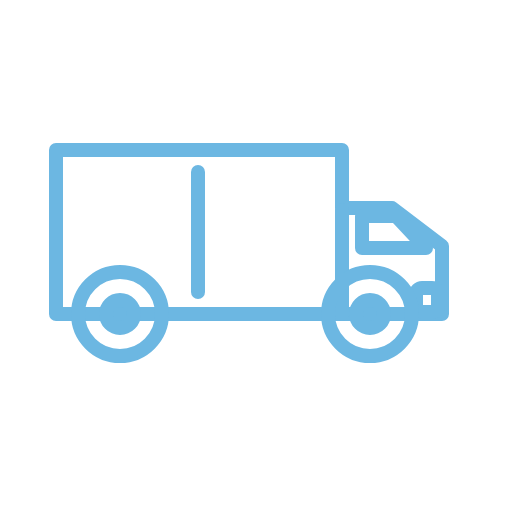
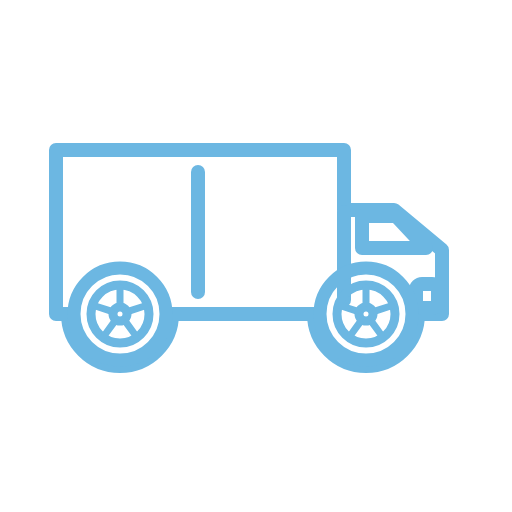
Kamyonet ikonlari v2: gercekci lastik/jant + camurluk arklari

Changed region(s): [[0.5938, 0.2812, 0.8438, 0.75], [0.125, 0.5, 0.3438, 0.75], [0.8125, 0.4375, 0.875, 0.5]]

diff --git a/_iconsrc_kamyonet/kamyonet-sol.html b/_iconsrc_kamyonet/kamyonet-sol.html
@@ -2,22 +2,34 @@
 <style>html,body{margin:0;padding:0;background:transparent}svg{display:block;width:512px;height:512px}</style></head>
 <body>
 <svg xmlns="http://www.w3.org/2000/svg" viewBox="0 0 512 512">
+  <defs>
+    <g id="wheel" fill="none" stroke="#6cb7e2" stroke-linecap="round">
+      <circle r="46" stroke-width="13"/>   <!-- dış lastik -->
+      <circle r="29" stroke-width="9"/>    <!-- jant -->
+      <circle r="7"  stroke-width="9"/>    <!-- göbek -->
+      <g stroke-width="7">                  <!-- 5 kollu jant -->
+        <line y1="-11" y2="-26"/>
+        <line y1="-11" y2="-26" transform="rotate(72)"/>
+        <line y1="-11" y2="-26" transform="rotate(144)"/>
+        <line y1="-11" y2="-26" transform="rotate(216)"/>
+        <line y1="-11" y2="-26" transform="rotate(288)"/>
+      </g>
+    </g>
+  </defs>
   <g fill="none" stroke="#6cb7e2" stroke-width="14" stroke-linecap="round" stroke-linejoin="round">
-    <!-- kamyonet yan dış hat (ön solda): kabin + yüksek kasa -->
-    <path d="M70 314 L70 246 L120 208 L170 208 L170 150 L456 150 L456 314 Z"/>
+    <!-- gövde: kabin + yüksek kasa, altta çamurluk arkları -->
+    <path d="M70 314 L70 250 L118 210 L168 210 L168 150 L456 150 L456 314 L444 314
+             A52 52 0 0 1 340 314 L198 314 A52 52 0 0 1 94 314 L70 314 Z"/>
     <!-- kabin camı -->
     <path d="M86 248 L116 216 L150 216 L150 248 Z"/>
     <!-- kabin / kasa ayrımı -->
-    <path d="M170 210 V314"/>
+    <path d="M168 212 V300"/>
     <!-- kasa panel dikişi -->
     <path d="M314 172 V292"/>
     <!-- far -->
-    <rect x="74" y="288" width="22" height="24" rx="6"/>
-    <!-- tekerlekler -->
-    <circle cx="142" cy="314" r="42"/>
-    <circle cx="392" cy="314" r="42"/>
-    <circle cx="142" cy="314" r="14"/>
-    <circle cx="392" cy="314" r="14"/>
+    <rect x="74" y="284" width="22" height="24" rx="6"/>
   </g>
+  <use href="#wheel" transform="translate(146,314)"/>
+  <use href="#wheel" transform="translate(392,314)"/>
 </svg>
 </body></html>

diff --git a/_iconsrc_kamyonet/kamyonet-on.html b/_iconsrc_kamyonet/kamyonet-on.html
@@ -2,22 +2,39 @@
 <style>html,body{margin:0;padding:0;background:transparent}svg{display:block;width:512px;height:512px}</style></head>
 <body>
 <svg xmlns="http://www.w3.org/2000/svg" viewBox="0 0 512 512">
+  <defs>
+    <g id="wheel" fill="none" stroke="#6cb7e2" stroke-linecap="round">
+      <circle r="46" stroke-width="13"/>
+      <circle r="29" stroke-width="9"/>
+      <circle r="7"  stroke-width="9"/>
+      <g stroke-width="7">
+        <line y1="-11" y2="-26"/>
+        <line y1="-11" y2="-26" transform="rotate(72)"/>
+        <line y1="-11" y2="-26" transform="rotate(144)"/>
+        <line y1="-11" y2="-26" transform="rotate(216)"/>
+        <line y1="-11" y2="-26" transform="rotate(288)"/>
+      </g>
+    </g>
+  </defs>
+  <!-- lastikler (gövdenin arkasında, altta) -->
+  <use href="#wheel" transform="translate(176,404) scale(0.92)"/>
+  <use href="#wheel" transform="translate(336,404) scale(0.92)"/>
   <g fill="none" stroke="#6cb7e2" stroke-width="14" stroke-linecap="round" stroke-linejoin="round">
     <!-- kabin gövde -->
-    <rect x="120" y="100" width="272" height="300" rx="34"/>
+    <rect x="120" y="100" width="272" height="292" rx="34"/>
     <!-- ön cam -->
     <rect x="158" y="138" width="196" height="100" rx="16"/>
     <!-- aynalar -->
     <path d="M120 178 L96 192"/>
     <path d="M392 178 L416 192"/>
     <!-- farlar -->
-    <rect x="156" y="300" width="58" height="32" rx="10"/>
-    <rect x="298" y="300" width="58" height="32" rx="10"/>
+    <rect x="156" y="296" width="58" height="30" rx="10"/>
+    <rect x="298" y="296" width="58" height="30" rx="10"/>
     <!-- ızgara -->
-    <path d="M232 306 H280"/>
-    <path d="M232 324 H280"/>
+    <path d="M232 304 H280"/>
+    <path d="M232 320 H280"/>
     <!-- tampon -->
-    <path d="M150 368 H362"/>
+    <path d="M150 360 H362"/>
   </g>
 </svg>
 </body></html>

diff --git a/_iconsrc_kamyonet/kamyonet-sag.html b/_iconsrc_kamyonet/kamyonet-sag.html
@@ -2,18 +2,31 @@
 <style>html,body{margin:0;padding:0;background:transparent}svg{display:block;width:512px;height:512px}</style></head>
 <body>
 <svg xmlns="http://www.w3.org/2000/svg" viewBox="0 0 512 512">
+  <defs>
+    <g id="wheel" fill="none" stroke="#6cb7e2" stroke-linecap="round">
+      <circle r="46" stroke-width="13"/>
+      <circle r="29" stroke-width="9"/>
+      <circle r="7"  stroke-width="9"/>
+      <g stroke-width="7">
+        <line y1="-11" y2="-26"/>
+        <line y1="-11" y2="-26" transform="rotate(72)"/>
+        <line y1="-11" y2="-26" transform="rotate(144)"/>
+        <line y1="-11" y2="-26" transform="rotate(216)"/>
+        <line y1="-11" y2="-26" transform="rotate(288)"/>
+      </g>
+    </g>
+  </defs>
   <g transform="translate(512,0) scale(-1,1)">
     <g fill="none" stroke="#6cb7e2" stroke-width="14" stroke-linecap="round" stroke-linejoin="round">
-      <path d="M70 314 L70 246 L120 208 L170 208 L170 150 L456 150 L456 314 Z"/>
+      <path d="M70 314 L70 250 L118 210 L168 210 L168 150 L456 150 L456 314 L444 314
+               A52 52 0 0 1 340 314 L198 314 A52 52 0 0 1 94 314 L70 314 Z"/>
       <path d="M86 248 L116 216 L150 216 L150 248 Z"/>
-      <path d="M170 210 V314"/>
+      <path d="M168 212 V300"/>
       <path d="M314 172 V292"/>
-      <rect x="74" y="288" width="22" height="24" rx="6"/>
-      <circle cx="142" cy="314" r="42"/>
-      <circle cx="392" cy="314" r="42"/>
-      <circle cx="142" cy="314" r="14"/>
-      <circle cx="392" cy="314" r="14"/>
+      <rect x="74" y="284" width="22" height="24" rx="6"/>
     </g>
+    <use href="#wheel" transform="translate(146,314)"/>
+    <use href="#wheel" transform="translate(392,314)"/>
   </g>
 </svg>
 </body></html>

diff --git a/_iconsrc_kamyonet/kamyonet-arka.html b/_iconsrc_kamyonet/kamyonet-arka.html
@@ -2,19 +2,35 @@
 <style>html,body{margin:0;padding:0;background:transparent}svg{display:block;width:512px;height:512px}</style></head>
 <body>
 <svg xmlns="http://www.w3.org/2000/svg" viewBox="0 0 512 512">
+  <defs>
+    <g id="wheel" fill="none" stroke="#6cb7e2" stroke-linecap="round">
+      <circle r="46" stroke-width="13"/>
+      <circle r="29" stroke-width="9"/>
+      <circle r="7"  stroke-width="9"/>
+      <g stroke-width="7">
+        <line y1="-11" y2="-26"/>
+        <line y1="-11" y2="-26" transform="rotate(72)"/>
+        <line y1="-11" y2="-26" transform="rotate(144)"/>
+        <line y1="-11" y2="-26" transform="rotate(216)"/>
+        <line y1="-11" y2="-26" transform="rotate(288)"/>
+      </g>
+    </g>
+  </defs>
+  <use href="#wheel" transform="translate(176,418) scale(0.92)"/>
+  <use href="#wheel" transform="translate(336,418) scale(0.92)"/>
   <g fill="none" stroke="#6cb7e2" stroke-width="14" stroke-linecap="round" stroke-linejoin="round">
     <!-- arka gövde -->
-    <rect x="118" y="92" width="276" height="320" rx="30"/>
+    <rect x="118" y="92" width="276" height="314" rx="30"/>
     <!-- çatı çizgisi -->
     <path d="M118 152 H394"/>
     <!-- iki kapı ortası -->
-    <path d="M256 152 V412"/>
+    <path d="M256 152 V406"/>
     <!-- kapı kolları -->
-    <path d="M230 268 V312"/>
-    <path d="M282 268 V312"/>
+    <path d="M230 264 V308"/>
+    <path d="M282 264 V308"/>
     <!-- stop lambaları -->
-    <rect x="150" y="356" width="42" height="34" rx="8"/>
-    <rect x="320" y="356" width="42" height="34" rx="8"/>
+    <rect x="150" y="350" width="42" height="34" rx="8"/>
+    <rect x="320" y="350" width="42" height="34" rx="8"/>
   </g>
 </svg>
 </body></html>
